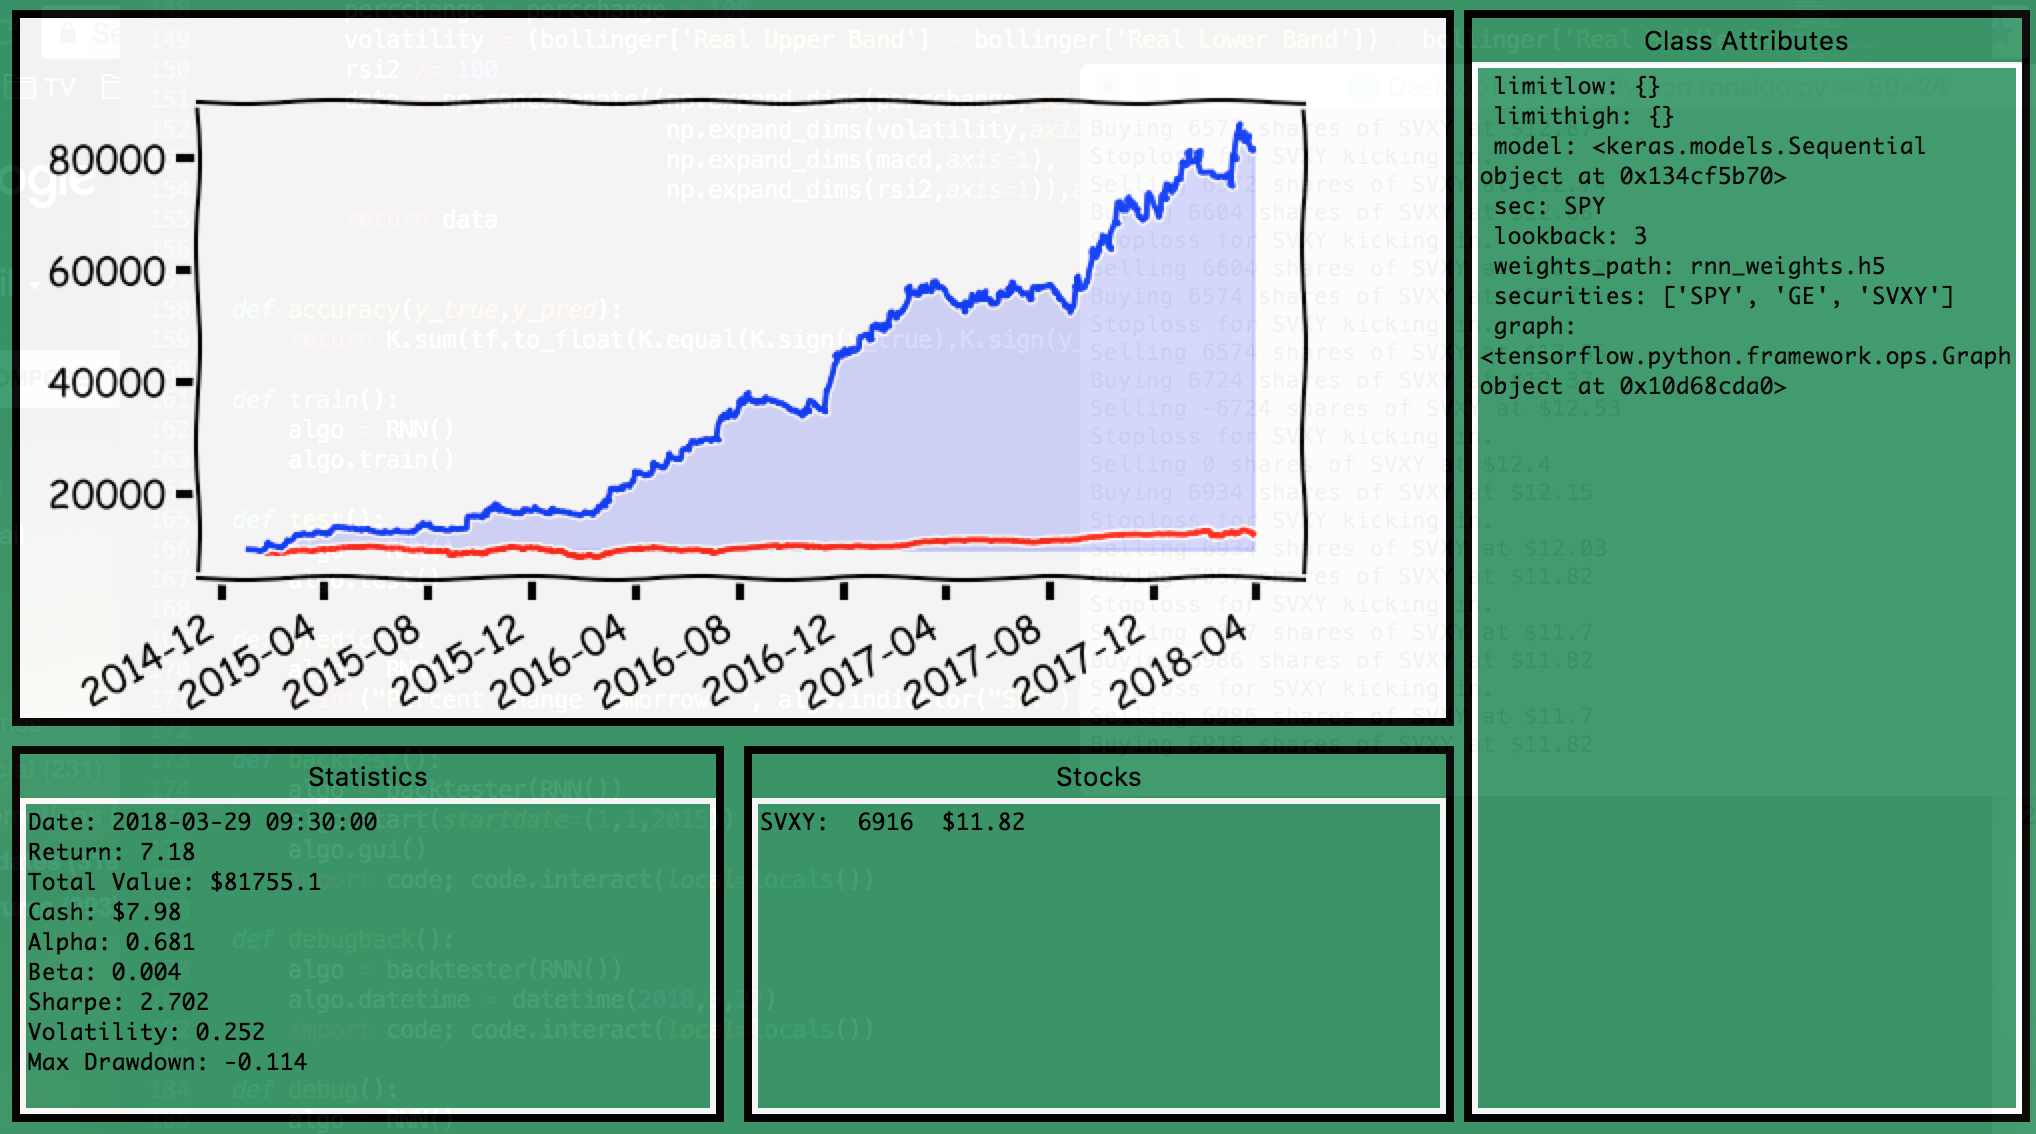
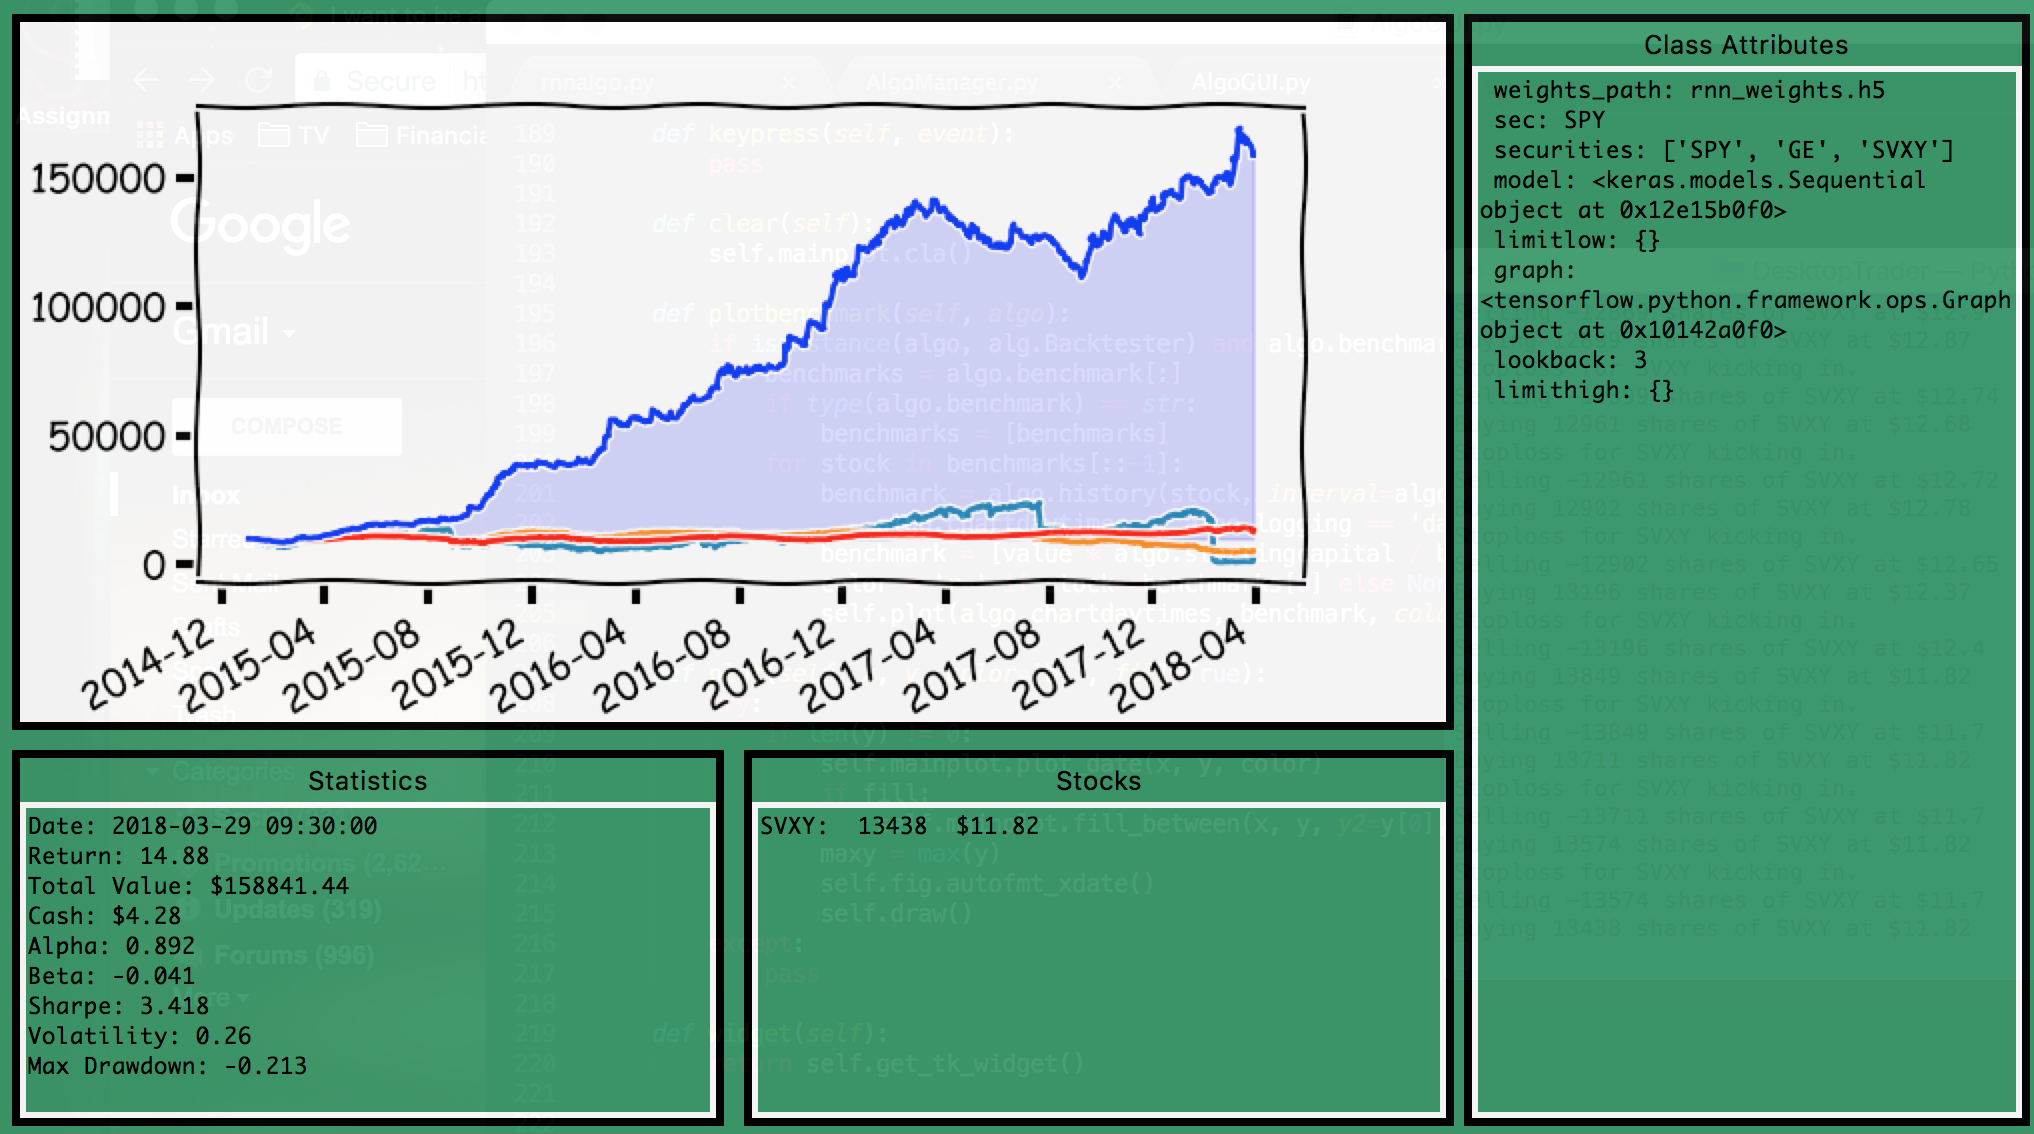
order blocking/filling, multi benchmark, rnnalgo fix

diff --git a/AlgoManager.py b/AlgoManager.py
@@ -241,22 +241,10 @@ class Manager:
         self.chartminute.append(self.value)
         self.chartminutetimes.append(datetime.datetime.now())
         for name, amount in positions().items():
-            amountdiff = amount - (self.stocks[name] if name in self.stocks else 0)
-            self.stocks[name] = amount
-            if amountdiff != 0:
-                for algo in list(self.algo_alloc.keys()):
-                    if (name in algo.openorders) and (algo.openorders[name] == amountdiff):
-                        algo.stocks[stock] = algo.stocks.get(stock,0) + amountdiff
-                        if algo.stocks[stock] == 0:
-                            del algo.stocks[stock]
-                        algo.cash -= abs(self.cash - self.lastcash)
-                        algo.cash = round(algo.cash,2)
-                        del algo.openorders[name]
             if amount == 0:
                 self.stocks.pop(name, None)
             else:
                 self.stocks[name] = amount
-        self.lastcash = self.cash
 
     # Moves stocks that you already hold into an algorithm
     # It will prevent you from trying to assign more of a stock than you actually own
@@ -326,7 +314,6 @@ class Algorithm(object):
         self.chartday = []
         self.chartdaytimes = []
         self.running = True
-        self.openorders = {}
         self.cache = {}
         self.stoplosses = {}
         self.stopgains = {}
@@ -374,7 +361,6 @@ class Algorithm(object):
         self.chartminutetimes = []
         self.chartday.append(self.value)
         self.chartdaytimes.append(datetime.datetime.now())
-        self.openorders = {}
         self.riskmetrics()
 
     # Checks and executes limit/stop orders
@@ -400,8 +386,9 @@ class Algorithm(object):
             self.orderpercent(stock,alloc,verbose=True)
 
     def riskmetrics(self):
+        benchmark = self.benchmark if type(self.benchmark)==str else self.benchmark[0]
         changes = [(current - last) / last for last, current in zip(self.chartday[:-1], self.chartday[1:])]
-        benchmarkchanges = self.percentchange(self.benchmark, length=len(changes))
+        benchmarkchanges = self.percentchange(benchmark, length=len(changes))
         changes = pd.DataFrame({'date':benchmarkchanges._index,'changes':changes})
         changes = changes.set_index('date')['changes']
         self.alpha, self.beta = alpha_beta(changes, benchmarkchanges)
@@ -510,48 +497,62 @@ class Algorithm(object):
     # amount: number of shares of that stock to order (+ for buy, - for sell)
     # verbose: prints out order
     def order(self, stock, amount, verbose=False):
-        #Guard condition for sell
-        if amount < 0 and (stock in self.stocks) and (-amount > self.stocks[stock]):
+        # Guard condition for sell
+        if amount < 0 and (-amount > self.stocks.get(stock,0)):
             print(("Warning: attempting to sell more shares (" + str(amount) + ") than are owned (" + str(
-                self.stocks[stock] if stock in self.stocks else 0) + ") of " + stock))
-            return None
+                self.stocks.get(stock,0)) + ") of " + stock))
+            return
         cost = self.quote(stock)
-        #Guard condition for buy
-        if cost * amount > self.cash:
+        # Guard condition for buy
+        if cost * amount > 0.95 * self.cash:
             print(("Warning: not enough cash ($" + str(self.cash) + ") in algorithm to buy " + str(
                 amount) + " shares of " + stock))
-            return None
+            return
         if amount == 0:
-            return None
-        #Stage the order
-        if not self.running:
-            self.stocks[stock] = self.stocks.get(stock,0) + amount
-            self.cash -= cost * amount
-        else:
-            self.openorders[stock] = self.openorders.get(stock, 0) + amount
-        if verbose:
-            if amount >= 0:
-                print( "Buying " + str(amount) + " shares of " + stock + " at $" + str(cost))
-            else:
-                print( "Selling " + str(amount) + " shares of " + stock + " at $" + str(cost))
-        if self.running:
+            return
+        # Place order, block until filled, update amount and cash
+        currentcash = portfoliodata()["cash"]
+        currentamount = positions().get(stock,0)
+        newamount = currentamount
+        if self.running:    
             if amount > 0:
-                return buy(stock, amount)
+                buy(stock, amount)
             elif amount < 0:
-                return sell(stock, amount)
+                sell(stock, amount)
+            for i in range(100):
+                newamount = positions().get(stock,0)
+                if newamount != currentamount:
+                    break
+                else:
+                    time.sleep(0.01*i)
+            newcash = portfoliodata()["cash"]
+            amount = newamount - currentamount
+            self.cash += (newcash - currentcash)
+            self.stocks[stock] = self.stocks.get(stock,0) + amount
+        else:
+            self.cash -= cost * amount
+            self.stocks[stock] = self.stocks.get(stock,0) + amount
+        if verbose:
+            if amount > 0:
+                print( "Buying " + str(amount) + " shares of " + stock + " at $" + str(cost))
+            elif amount < 0:
+                print( "Selling " + str(amount) + " shares of " + stock + " at $" + str(cost))
+
 
     # Buy or sell to reach a target percent of the algorithm's total allocation
     def orderpercent(self, stock, percent, verbose=False):
-        stockprice = self.quote(stock)
+        cost = self.quote(stock)
         currentpercent = 0.0
         if stock in self.stocks:
-            currentpercent = self.stocks[stock] * stockprice / self.value
+            currentpercent = self.stocks[stock] * cost / self.value
         percentdiff = percent - currentpercent
         if percentdiff < 0:
-            amount = round(-percentdiff * self.value / stockprice)
+            # Min of (# required to reach target percent) and (# of that stock owned)
+            amount = min( round(-percentdiff * self.value / cost), self.stocks.get(stock,0) )
             return self.order(stock, -amount, verbose)
         else:
-            amount = math.floor(percentdiff * self.value / stockprice)
+            # Min of (# required to reach target percent) and (# that you can buy with 95% of your available cash)
+            amount = min( math.floor(percentdiff * self.value / cost), math.floor(0.95 * self.cash / cost) )
             return self.order(stock, amount, verbose)
 
     # Sells all held stocks
@@ -577,7 +578,7 @@ class Algorithm(object):
 
     # Use Alpha Vantage to get the historical price data of a stock
     # stock: stock symbol (string)
-    # interval: time interval between data points '1min','5min','15min','30min','60min','daily','weekly' (default 1min)
+    # interval: time interval between data points '1min','5min','15min','30min','60min','daily' (default 1min)
     # length: number of data points (default is only the last)
     # datatype: 'close','open','volume' (default close)
     def history(self, stock, interval='daily', length=1, datatype='open'):
@@ -600,8 +601,6 @@ class Algorithm(object):
             try:
                 if interval == 'daily':
                     hist, _ = data.get_daily_adjusted(symbol=stock, outputsize=size)
-                elif interval == 'weekly':
-                    hist, _ = data.get_weekly(symbol=stock)
                 else:
                     hist, _ = data.get_intraday(symbol=stock, interval=interval, outputsize=size)
             except ValueError as err:
@@ -894,14 +893,14 @@ class Backtester(Algorithm):
                 self.stocks[stock] = 0
                 self.cash += self.stoplosses[stock] * amount
                 print("Stoploss for " + stock + " kicking in.")
-                print("Selling " + str(amount) + " shares of " + stock + " at $" + str(round(self.stoplosses[stock],2)))
+                print("Selling " + str(-amount) + " shares of " + stock + " at $" + str(round(self.stoplosses[stock],2)))
                 del self.stoplosses[stock]
             elif (stock in self.stocks) and (stock in self.stopgains) and (self.history(stock,datatype='2. high')[0] >= self.stopgains[stock]):
                 amount = self.stocks[stock]
                 self.stocks[stock] = 0
                 self.cash += self.stopgains[stock] * amount
                 print("Stopgain for " + stock + " kicking in.")
-                print("Selling " + str(amount) + " shares of " + stock + " at $" + str(round(self.stopgains[stock],2)))
+                print("Selling " + str(-amount) + " shares of " + stock + " at $" + str(round(self.stopgains[stock],2)))
                 del self.stoplosses[stock]
             elif (stock in self.limitlow) and (self.history(stock,datatype='3. low')[0] <= self.limitlow[stock]):
                 self.stocks[stock] = math.floor(self.cash / self.limitlow[stock])
@@ -942,8 +941,6 @@ class Backtester(Algorithm):
                 try:
                     if interval == 'daily':
                         hist, _ = data.get_daily_adjusted(symbol=stock, outputsize='full')
-                    elif interval == 'weekly':
-                        hist, _ = data.get_weekly(symbol=stock)
                     else:
                         hist, _ = data.get_intraday(symbol=stock, interval=interval, outputsize='full')
                 except ValueError as err:

diff --git a/rnnalgo.py b/rnnalgo.py
@@ -15,7 +15,7 @@ class RNN(Algorithm):
 	def initialize(self):
 		self.securities = ["SPY", "GE", "SVXY"]
 		self.sec = 'SPY'
-		self.benchmark = self.sec
+		self.benchmark = self.securities
 		self.lookback = 3
 		self.weights_path = 'rnn_weights.h5'
 		# original: LSTM32, Dense128, Dense1
@@ -23,7 +23,6 @@ class RNN(Algorithm):
 		self.model.add(LSTM(32,input_shape=(self.lookback,4),return_sequences=False,dropout=0.2,recurrent_dropout=0.2,kernel_regularizer=l1(0.001),recurrent_regularizer=l1(0.001)))
 		self.model.add(Dropout(0.2))
 		self.model.add(Dense(128,kernel_regularizer=l1(0.001),activation='relu'))
-		#self.model.add(LSTM(32,dropout=0.2,recurrent_dropout=0.2,kernel_regularizer=l1(0.001),recurrent_regularizer=l1(0.001)))
 		self.model.add(Dropout(0.2))
 		self.model.add(Dense(1,kernel_regularizer=l1(0.001)))
 		try:
@@ -42,7 +41,7 @@ class RNN(Algorithm):
 	def run(self):
 		signals = []
 		for security in self.securities:
-			signals.append(self.indicator(security))
+			signals.append(self.indicator(security)[0])
 		maxsig = max(signals)
 		maxsigstock = self.securities[signals.index(maxsig)]
 		if maxsig > 0.4:
@@ -54,7 +53,7 @@ class RNN(Algorithm):
 		self.stopsell(maxsigstock,-0.01)
 
 
-	def indicator(self,stock,length=1,skip=-1):
+	def indicator(self,stock,length=1,skip=0):
 		dataX, _ = self.getdata(stock,length,skip)
 		with self.graph.as_default():
 			return self.model.predict(dataX)[:,0]
@@ -64,6 +63,7 @@ class RNN(Algorithm):
 		callbacks = []
 		callbacks.append(ModelCheckpoint(self.weights_path, monitor='val_loss', verbose=1, save_best_only=True, save_weights_only=True))
 		dataX, dataY = self.getdata("SPY",datapoints=3200,skip=1200)
+		import pdb; pdb.set_trace()
 		dataXval, dataYval = self.getdata("SPY",datapoints=800,skip=400)
 		self.model.fit(dataX,dataY,validation_data=(dataXval,dataYval),callbacks=callbacks,epochs=100)
 		self.model.save_weights(self.weights_path)
@@ -95,7 +95,7 @@ class RNN(Algorithm):
 		plt.show()
 
 
-	def getdata(self,stock,datapoints=1,skip=-1):
+	def getdata(self,stock,datapoints=1,skip=0):
 		# returns tuple (inputs, resulting next day price change)
 		# datapoints: number of time steps
 		# skip: number of most recent datapoints to skip 
@@ -163,5 +163,5 @@ def debug():
 	import code; code.interact(local=locals())
 
 if __name__ == '__main__':
-	test()
+	backtest()
 		

diff --git a/AlgoGUI.py b/AlgoGUI.py
@@ -194,10 +194,15 @@ class Graph(FigureCanvasTkAgg):
 
     def plotbenchmark(self, algo):
         if isinstance(algo, alg.Backtester) and algo.benchmark is not None:
-            benchmark = algo.history(algo.benchmark, interval=algo.logging, length=len(
-                algo.chartdaytimes if algo.logging == 'daily' else algo.chartminutetimes))
-            benchmark = [value * algo.startingcapital / benchmark[0] for value in benchmark]
-            self.plot(algo.chartdaytimes, benchmark, color="r-", fill=False)
+            benchmarks = algo.benchmark[:]
+            if type(algo.benchmark) == str:
+                benchmarks = [benchmarks]
+            for stock in benchmarks[::-1]:
+                benchmark = algo.history(stock, interval=algo.logging, length=len(
+                    algo.chartdaytimes if algo.logging == 'daily' else algo.chartminutetimes))
+                benchmark = [value * algo.startingcapital / benchmark[0] for value in benchmark]
+                color = 'r-' if stock==benchmarks[0] else None
+                self.plot(algo.chartdaytimes, benchmark, color=color, fill=False)
 
     def plot(self, x, y, color='b-', fill=True):
         try:
